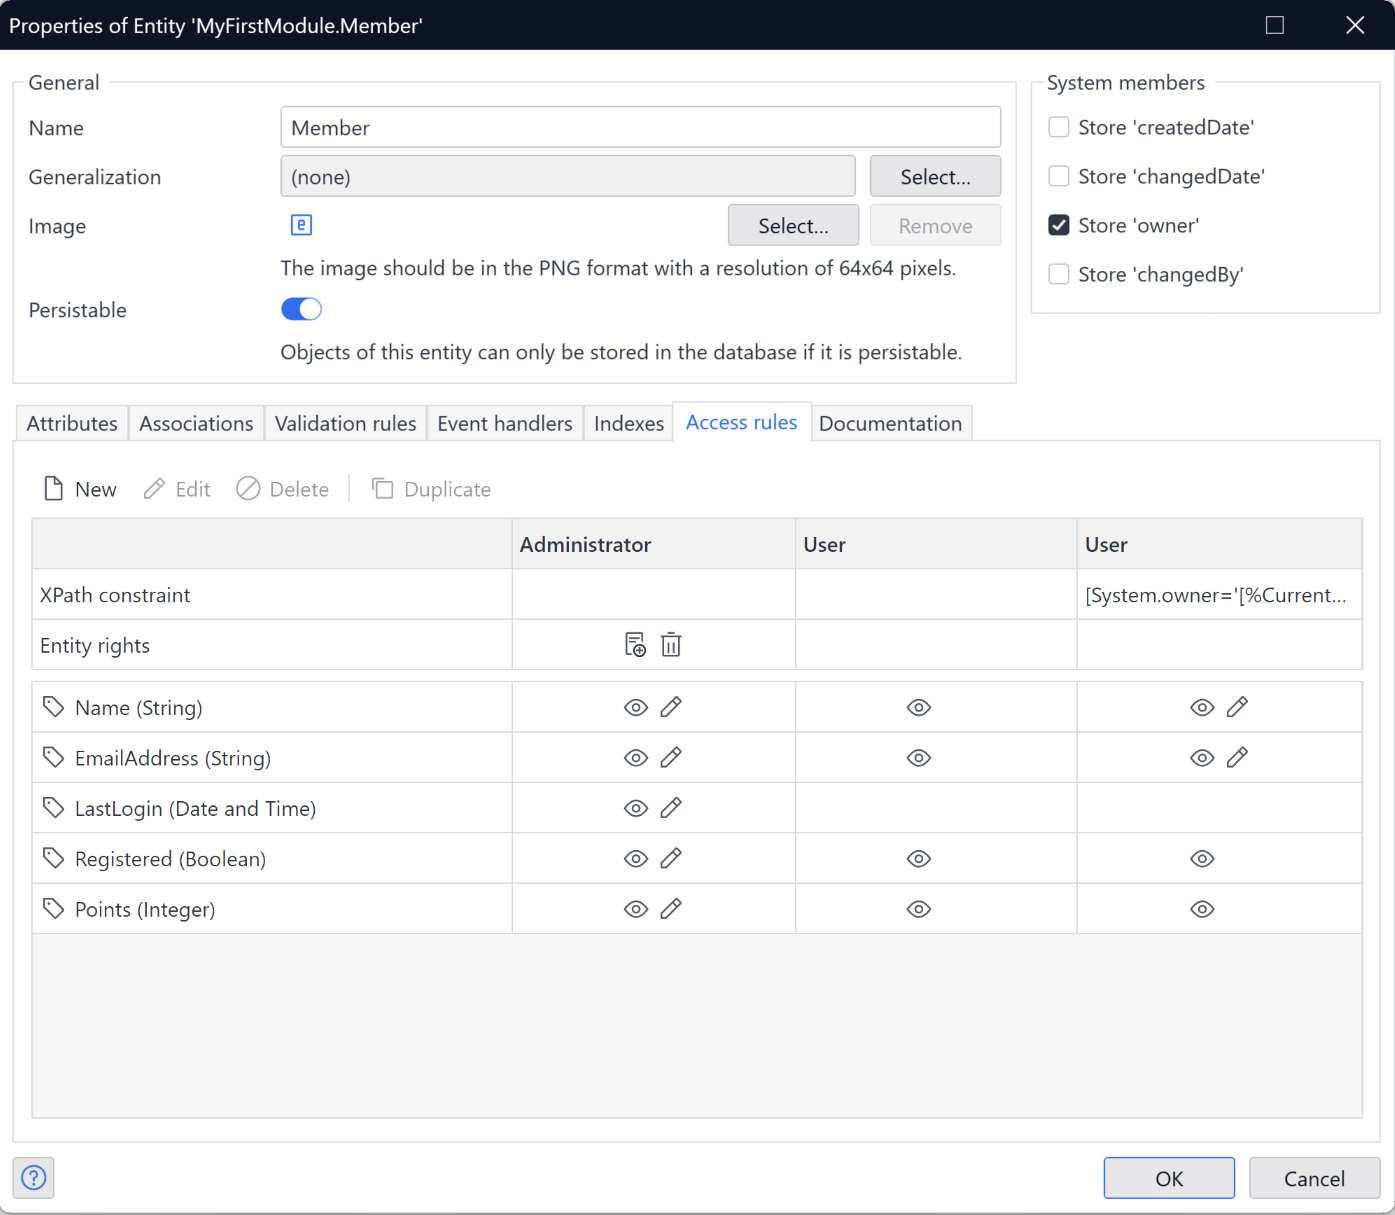
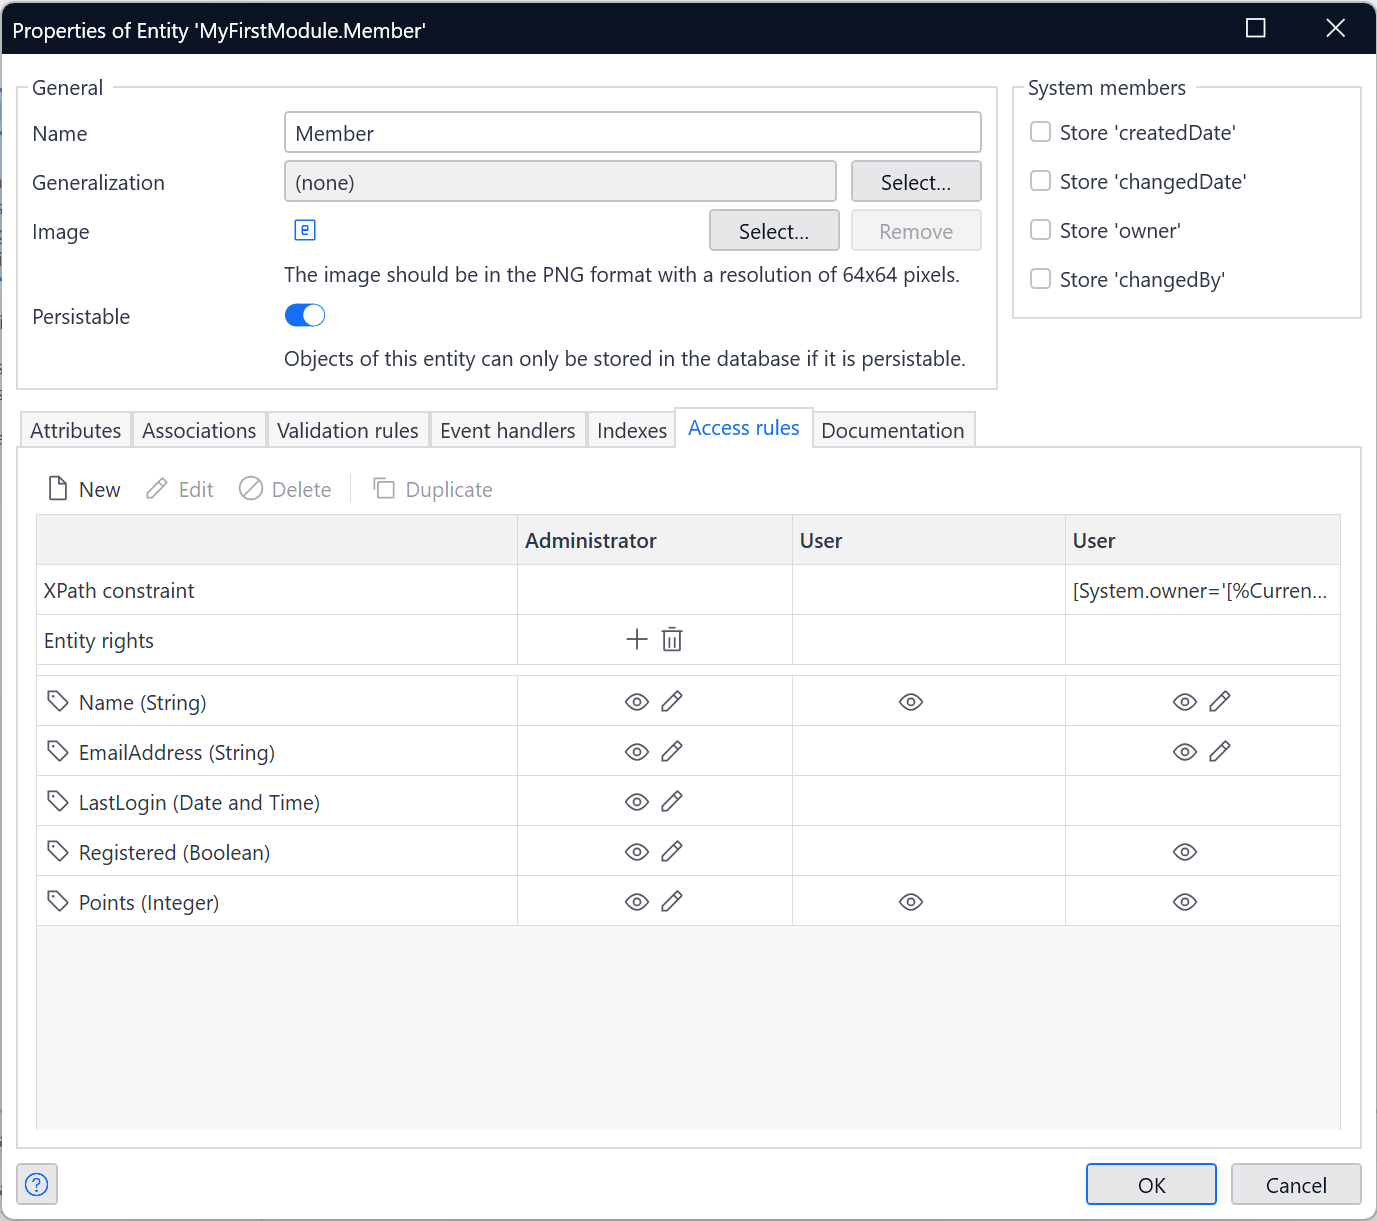
Make modernized access rules editor default in the docs, mention deprecation and removal of old editor

diff --git a/content/en/docs/refguide/modeling/domain-model/entities/access-rules.md b/content/en/docs/refguide/modeling/domain-model/entities/access-rules.md
@@ -30,13 +30,6 @@ The **System.User** entity has inbuilt access rules where access is given to its
 
 ## Defining Access Rules
 
-{{% alert color="warning" %}}
-The modernized access rule editor was made generally available in Studio Pro version 10.20.0, replacing the old editor.
-
-For guidance on using the old editor, see [Defining Access Rules Using the Old Editor](#old-editor), below.
-
-{{% /alert %}}
-
 {{% alert color="info" %}}
 In preparation for making the modernized access rule editor generally available, the features and interface were modified in Studio Pro version 10.17.0. The description below describes that version of the interface and does not fully describe the previous beta interface (Studio Pro versions 10.6.0 through 10.16.0).
 {{% /alert %}}
@@ -49,147 +42,6 @@ Access rules can be viewed via the **Access rules** tab of the entity properties
 
 {{% alert color="info" %}}
 The **Access rules** section is visible only if the [App Security](/refguide/app-security/) is set to **Production**.
-{{% /alert %}}
-
-### Editor Layout
-
-The access rules editor displays each access rule belonging to the entity as an individual column. The header shows the modules role(s) the access rules apply to. When the module role name is long or there are multiple roles, the label is clipped. Hover over the header to show the full module role(s).
-
-When there are no access rules yet, they can be added by clicking **New**. 
-
-Select an access rule by clicking on the column. When an access rule is selected, it can be edited, duplicated or deleted using the respective buttons. You can also edit an access rule by double-clicking it.
-
-{{< figure src="/attachments/refguide/modeling/domain-model/entities/access-rules/access-rules-editor.png" alt="This image indicates the position of the Delete icons" width="550px" class="no-border" >}}
-
-#### XPath Constraint
-
-When there is a value shown in the **XPath constraint** row for a specific access rule, this means it has an XPath constraint. The access rule will only be granted if the XPath constraint is true. When an XPath constraint has a caption, this is shown instead of the XPath constraint itself.
-
-### Entity Rights
-
-By setting the appropriate entity rights in an access rule, you can control the ability to create and/or delete objects of the entity. By default, an access rule has no entity rights. 
-
-When an access rule has entity rights, this is shown using the **Create** ({{% icon name="create" color="gray" %}}) and/or **Delete** ({{% icon name="trash-can" %}}) icon in the entity rights row for the specific access rule.
-
-### Attribute and Association Rights
-
-In the access rule, access to specific members (attributes or associations belonging to the entity) can be controlled. The access can be **None**, **Read**, or **Read and Write**. When there is no access, no icon is displayed in the row of the member in the access rule column. If there is **Read** access, a **Read** icon ({{% icon name="view" %}}) is displayed. For **Read and Write** access, both the **Read** ({{% icon name="view" %}}) and **Write** ({{% icon name="pencil" %}}) icons are displayed.
-
-### Creating or editing an access rule
-
-Access rules can be created from the **New Access Rule** dialog. This dialog can be opened by clicking **New**. To edit an existing access rule, select an access rule and click **Edit**. You can also double-click on an access rule. 
-
-{{< figure src="/attachments/refguide/modeling/domain-model/entities/access-rules/access-rule-editor.png" alt="This image indicates the position of the Delete icons" width="550px" class="no-border" >}}
-
-#### Documentation
-
-You can add documentation to describe the access rule. 
-
-#### Module roles
-
-Select the module role(s) this access rule applies to. If there are no module roles selected there will be a consistency error.
-
-#### XPath Constraints
-
-To edit the XPath constraint, click **Edit...** next to the XPath constraint field. This will open the XPath editor dialogue to edit the XPath constraint of the access rule.
-
-{{% alert color="warning" %}}
-XPath constraints can only be applied to persistable entities, as they are applied by the database. Defining XPath constraints for non-persistable entities results in consistency errors.
-{{% /alert %}}
-
-There are two constraints that can be appended easily with a single button click. 
-
-##### Owner
-
-The **Owner** button adds an XPath constraint so the access rule is only applied if the object owner is the current end-user.
-
-```java
-[System.owner='[%CurrentUser%]']
-```
-
-This constraint is only valid when the [Store 'owner'](/refguide/entities/#store-owner) checkbox in the **System members** section of the entity properties is checked.
-
-##### Path to User
-
-The **Path to user...** button adds an XPath constraint so the access rule is only applied when a User object which is associated (directly or indirectly) with the current object is the current end-user. When you click **Path to user...**, you can select a path to an associated entity that is either a `System.User` or a specialization of `System.User`. This is then converted into an XPath constraint for the access rule.
-
-For example:
-
-1. Assume that the **Customer** entity is a specialization of the **User** entity. The **Order** entity is associated with the **Customer** entity via the **Order_Customer** association.
-2. Assume that a logged-in customer is only allowed to view their orders, but is not allowed to view the orders of other customers.
-
-The XPath constraint can be constructed easily using the **Path to user...** button by selecting the **Customer** entity in the **Order** entity access rule. The created rule will look like this:
-
-```xpath
-[Module.Order_Customer = '[%CurrentUser%]']
-```
-
-Because of this XPath constraint, access defined in the access rule is only applied to orders for which the customer is the current end-user.
-
-#### Entity Rights
-
-You can add or edit entity rights using the toggles next to **Allow creating new and deleting existing objects**. 
-
-XPath constraints are not applied to create operations, meaning that if you enable create access in an access rule which applies to a certain module role, any end-user with this module role can create objects of this entity.
-
-XPath constraints are applied to delete operations, unlike create operations.
-
-#### Default member access
-
-Specifies the rights which are applied to new attributes or associations of this entity. This option was absent from the new Access Rule Editor before version 10.19 where the rights always defaulted to no access for any module roles.
-
-#### Attribute and Association Rights
-
-Access to the members can be set using the toggles in the column next to the member description. 
-
-You can also click **Read** or **Write** in the **Set all to** footer to enable or disable 'Read' or 'Read and Write' access for all attributes and associations in this column. 
-
-{{% alert color="info" %}}
-You cannot set *Write* access to attributes which are calculated. This includes both attributes where the attribute value is set to **Calculated** and attributes of type *Autonumber*.
-{{% /alert %}}
-
-See [Attribute Changes and Security Constraints](#attribute-changes), above, for important considerations about giving access to attributes.
-
-### Access Rule Normalization{#normalization}
-
-Older beta versions of the new access rule editor, in Studio Pro versions 10.6 through 10.16, worked with normalized access rules. A normalized access rule is an access rule that has exactly one module role attached to it. This change was made because the editor used to work with a table where the entity members make use of the rows and module roles (optionally with XPaths) use the columns. 
-
-Access rules were automatically normalized when first using the new editor for an entity. Alternatively, all access rules in a project could be normalized at once by going to *App* *Tools* > *Normalize access rules*;
-
-## Access Rule Evaluation
-
-Access rules are defined as part of application development. This section describes the effects access rules have at runtime, under the assumption that the **App Security** is set to **Production**.
-
-Access rules are abstract descriptions of access rights. To apply them they need to be evaluated. Given an end-user with certain user roles and the state of the database it can be determined if an access rule applies. The Mendix Runtime stores the result of access rule evaluations in memory. In general, this evaluation happens on retrieval of objects from the database. The results will stay valid for the lifetime of the object, which is usually the request. Access rules are evaluated differently depending on the object state. More details about their evaluation when accessed from and end-user session are given below.
-
-### Attribute Changes and Security Constraints{#attribute-changes}
-
-If an end-user cannot view the value of an attribute because of security constraints, that attribute will never be sent to the Mendix Client.
-
-{{% alert color="warning" %}}
-Because Mendix is stateless, this can lead to unexpected results (for example, loss of changes) if changes to the attribute in a microflow are not committed immediately.
-{{% /alert %}}
-
-See [Basic CRUD Communication Pattern](/refguide/communication-patterns/#crud) in *Communication Patterns in the Mendix Runtime* for more information on how data is passed between the Runtime Server and the Mendix Client and what cases may lead to a loss of changes.
-
-### New Objects
-
-When a new object is created, or when a new object is sent to the runtime server as part of a request, all XPath constraints are assumed to evaluate as `true`. This evaluation result is stored in memory and valid for the lifetime of the request. Committing the object does *not* lead to access rules or XPath rules being re-evaluated.
-
-### Objects Stored in the Database
-
-When a persistable object that has been committed before is passed to the runtime server, the access rules are evaluated based on the current state of the object in the database. More precisely, when passing an object, only the 'changes' on the object and an 'object id' are sent. A full object is then reconstructed in two steps. Firstly, the object is retrieved from the database based on its id. At that time the access rules are evaluated based on the values retrieved from the database. Secondly, changes are applied to the object.
-
-As for new objects the result of this access rule evaluation is stored in memory and not changed for the lifetime of the object or request. In particular, changes to attributes or committing the object does not cause re-evaluation of access rules.
-
-### Non-Persistable Objects
-
-Non-persistable objects cannot have XPath constraints.
-
-
-## Defining Access Rules using the Old Editor {#old-editor}
-{{% alert color="warning" %}}
-The old editor is deprecated from 10.20.0 and will be removed in 11.0.0, in the meantime it can still be used by disabling the modern editor in the [Preferences Dialog](/refguide/preferences-dialog/#new-features).
 {{% /alert %}}
 
 An example of the access rules properties is represented in the image below:
